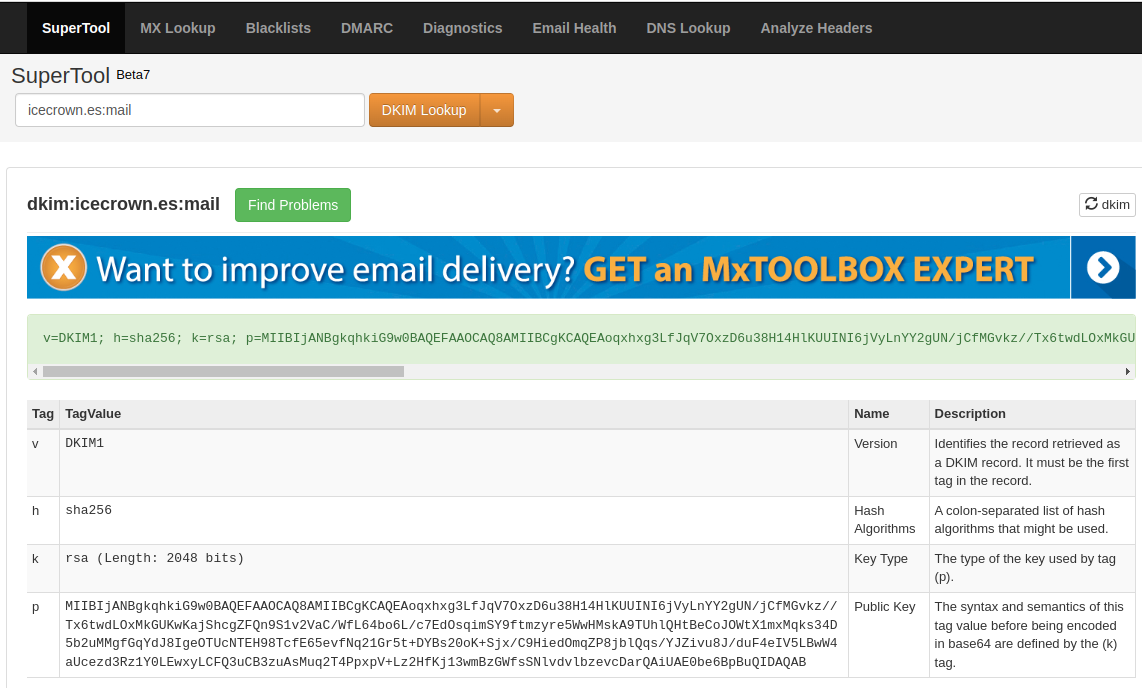
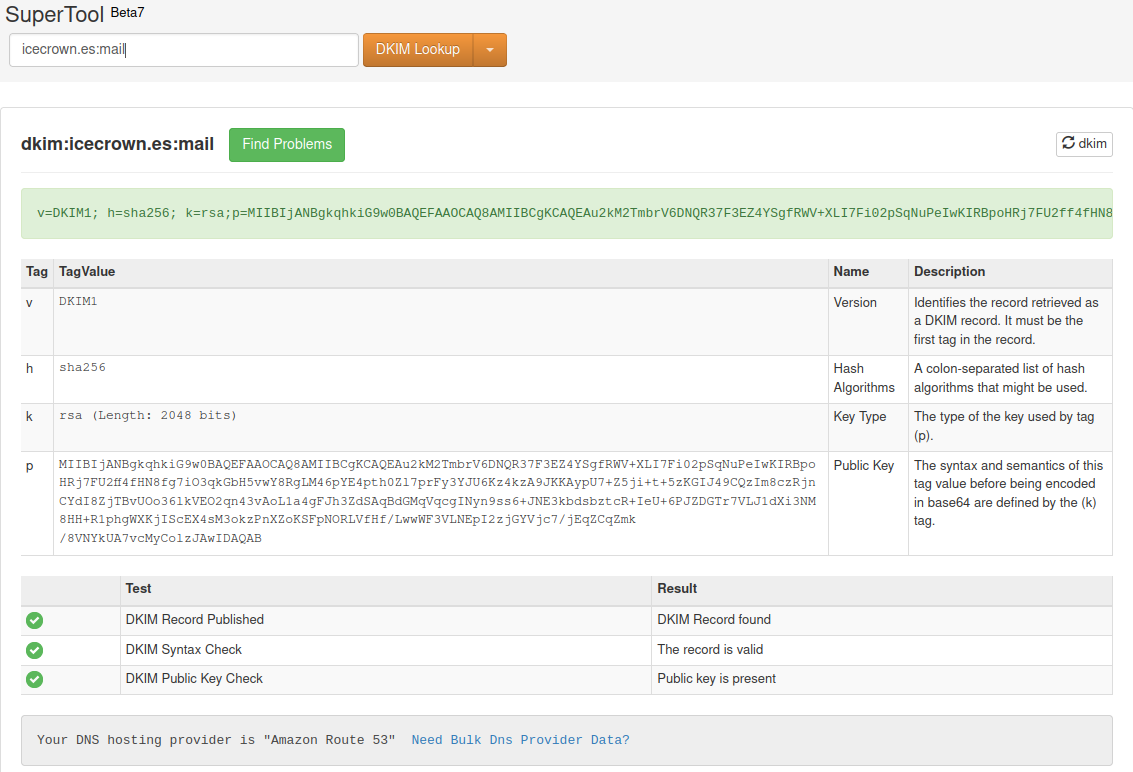
Contenido actualizado de DKIM

diff --git a/docs/zentyal-hardening.md b/docs/zentyal-hardening.md
@@ -181,24 +181,24 @@ Para este módulo vamos a implementar las siguientes funcionalidades para increm
 
 ### DKIM
 
+[DKIM] será la siguiente implementación de seguridad que realizaremos. El objetivo de DKIM es que el receptor pueda verificar que el email recibido es legítimo. Los pasos de configuración necesarias las he sacado de [aquí](https://doc.zentyal.org/es/mail.html#securizacion-del-servidor-de-correo).
+
 [DKIM]: https://www.dmarcanalyzer.com/es/dkim-3/
 
-DKIM será el próximo elemento a implementar, las acciones que realizaremos serán las mismas que se describen [aquí](https://doc.zentyal.org/es/mail.html#securizacion-del-servidor-de-correo).
-
-1. Instalamos el paquete necesario para la implementación de está técnica de autenticación para los correos electrónicos:
+1. Instalamos el paquete necesario para la implementación de DKIM:
 
     ```bash
     sudo apt update
-    sudo apt install opendkim opendkim-tools
+    sudo apt install -y opendkim opendkim-tools
     ```
 
-2. Creamos el directorio donde se almacenerán las claves de OpenDKIM:
+2. Creamos el directorio donde se almacenarán las claves de OpenDKIM:
 
     ```bash
     sudo mkdir -vp /etc/opendkim/keys
     ```
 
-3. Generamos la clave privada que será usada para firmar los correos electrónicos:
+3. Generamos la clave privada que será usada para firmar los correos electrónicos y como selector le daremos `mail`:
 
     ```bash
     sudo opendkim-genkey -s mail -d icecrown.es -D /etc/opendkim/keys
@@ -211,7 +211,7 @@ DKIM será el próximo elemento a implementar, las acciones que realizaremos ser
     sudo chmod 0640 /etc/opendkim/keys/*.private
     ```
 
-5. Creamos el archivo de configuración `/etc/opendkim/TrustedHosts` y establecemos en él, los dominios e IPs confiables:
+5. Creamos el archivo de configuración `/etc/opendkim/TrustedHosts` y establecemos en él el dominio y direcciones IP confiables:
 
     ```bash
     127.0.0.1
@@ -223,32 +223,34 @@ DKIM será el próximo elemento a implementar, las acciones que realizaremos ser
 6. Creamos el archivo de configuración `/etc/opendkim/SigningTable` que contendrá el dominio a firmar por OpenDKIM:
 
     ```bash
-    *@icecrown.es
+    *@icecrown.es mail._domainkey.icecrown.es
     ```
 
-7. Creamos el archivo de configuración `/etc/opendkim/KeyTable` que tendrá el selector y la ruta a la clave privada encargada de firmar los correos electrónicos:
+7. Creamos el archivo de configuración `/etc/opendkim/KeyTable` que tendrá el nombre del selector y la ruta a la clave privada encargada de firmar los correos electrónicos:
 
     ```bash
-    mail icecrown.es:mail:/etc/opendkim/keys/mail.private
+    mail._domainkey.icecrown.es icecrown.es:mail:/etc/opendkim/keys/mail.private
     ```
 
-8. Creamos el archivo de configuración pricipal llamado `/etc/opendkim.conf` y establecemos la configuración del servicio OpenDKIM:
+8. Creamos el archivo de configuración principal llamado `/etc/opendkim.conf` y establecemos la configuración del servicio OpenDKIM:
 
     ```bash
-    Mode                    sv
-    PidFile                 /var/run/opendkim/opendkim.pid
-    UserID                  opendkim:opendkim
+    Syslog			        yes
+    LogWhy			        yes
+    UMask			        007
+    Mode			        sv
+    SubDomains		        no
+    Canonicalization	    relaxed/simple
     Socket                  inet:8891@127.0.0.1
-    SignatureAlgorithm      rsa-sha256
-    AutoRestart             Yes
-    AutoRestartRate         10/1h
-    Syslog                  yes
-    SyslogSuccess           yes
-    LogWhy                  Yes
-    UMask                   002
-    OversignHeaders         From
-    Canonicalization        relaxed/simple
-
+    PidFile                 /run/opendkim/opendkim.pid
+    OversignHeaders		    From
+    TrustAnchorFile         /usr/share/dns/root.key
+    UserID                  opendkim
+    AutoRestart			    yes
+    AutoRestartRate		    10/1M
+    Background			    yes
+    DNSTimeout			    5
+    SignatureAlgorithm	    rsa-sha256
     ExternalIgnoreList      refile:/etc/opendkim/TrustedHosts
     InternalHosts           refile:/etc/opendkim/TrustedHosts
     KeyTable                refile:/etc/opendkim/KeyTable
@@ -258,8 +260,9 @@ DKIM será el próximo elemento a implementar, las acciones que realizaremos ser
 9. Establecemos la configuración del socket en el archivo de configuración `/etc/default/opendkim`:
 
     ```bash
-    ## Custom configuration
-    SOCKET="inet:8891@127.0.0.1"
+    ## Custom configuration created on 19-02-2023 by Daniel
+    # SOCKET=local:$RUNDIR/opendkim.sock
+    SOCKET=inet:8891@127.0.0.1
     ```
 
 10. Habilitamos, reiniciamos y comprobamos el servicio de OpenDKIM:
@@ -270,15 +273,19 @@ DKIM será el próximo elemento a implementar, las acciones que realizaremos ser
     sudo systemctl status opendkim
     ```
 
-11. Obtenemos el contenido del registro `TXT` que deberemos que crear en el dominio, para ello, abrimos el archivo de configuración `/etc/opendkim/keys/mail.txt`:
+11. El contenido del registro `TXT` que deberemos que crear en el dominio se encuentra en el archivo de configuración `/etc/opendkim/keys/mail.txt`:
+
+    En mi caso, el contenido es:
 
     ```bash
     mail._domainkey	IN	TXT	( "v=DKIM1; h=sha256; k=rsa; "
[4 lines of base64/hex data omitted]
     ```
 
-12. Creamos el registro TXT en el dominio. A diferencia de SPF, para este registro habrá que usar la CLI:
+12. Creamos el registro DNS de tipo `TXT` tanto en el servidor Zentyal como en el proveedor DNS:
+
+    Para el servidor Zentyal vamos a `DNS -> Domains -> TXT records`:
 
     ```bash
     sudo samba-tool dns add \
@@ -286,35 +293,103 @@ DKIM será el próximo elemento a implementar, las acciones que realizaremos ser
         icecrown.es \
         mail._domainkey.icecrown.es \
         TXT \
-        '"v=DKIM1; h=sha256; k=rsa; "
[2 lines of base64/hex data omitted]
+        'v=DKIM1; h=sha256; k=rsa;
[2 lines of base64/hex data omitted]
         -U zenadmin
     ```
 
-13. Revisamos desde [MXtoolbox] el registro añadido:
+    Para Route53:
+
+    !["DNS record for DKIM in Route53"](images/zentyal/mail-dkim_route53.png "DNS record for DKIM in Route53")
+
+13. Comprobamos la resolución del nuevo registro tanto interna como externamente:
+
+    ```bash
+    dig TXT mail._domainkey.icecrown.es
+    dig @8.8.8.8 TXT mail._domainkey.icecrown.es
+    ```
+
+    El resultado obtenido en mi caso:
+
+    ```text
+    ## Consulta interna (desde Zentyal)
+    ; <<>> DiG 9.16.1-Ubuntu <<>> TXT mail._domainkey.icecrown.es
+    ;; global options: +cmd
+    ;; Got answer:
+    ;; ->>HEADER<<- opcode: QUERY, status: NOERROR, id: 47343
+    ;; flags: qr aa rd ra; QUERY: 1, ANSWER: 1, AUTHORITY: 0, ADDITIONAL: 1
+
+    ;; OPT PSEUDOSECTION:
+    ; EDNS: version: 0, flags:; udp: 4096
+    ; COOKIE: e524c5bb228993ae0100000063f26951777512932a30cbc1 (good)
+    ;; QUESTION SECTION:
+    ;mail._domainkey.icecrown.es.	IN	TXT
+
+    ;; ANSWER SECTION:
[1 lines of base64/hex data omitted]
+
+    ;; Query time: 4 msec
+    ;; SERVER: 127.0.0.1#53(127.0.0.1)
+    ;; WHEN: Sun Feb 19 19:24:17 CET 2023
+    ;; MSG SIZE  rcvd: 518
+
+
+    ## Consulta externa
+    ; <<>> DiG 9.16.1-Ubuntu <<>> @8.8.8.8 TXT mail._domainkey.icecrown.es
+    ; (1 server found)
+    ;; global options: +cmd
+    ;; Got answer:
+    ;; ->>HEADER<<- opcode: QUERY, status: NOERROR, id: 58941
+    ;; flags: qr rd ra; QUERY: 1, ANSWER: 2, AUTHORITY: 0, ADDITIONAL: 1
+
+    ;; OPT PSEUDOSECTION:
+    ; EDNS: version: 0, flags:; udp: 512
+    ;; QUESTION SECTION:
+    ;mail._domainkey.icecrown.es.	IN	TXT
+
+    ;; ANSWER SECTION:
[2 lines of base64/hex data omitted]
+
+    ;; Query time: 16 msec
+    ;; SERVER: 8.8.8.8#53(8.8.8.8)
+    ;; WHEN: Sun Feb 19 19:25:24 CET 2023
+    ;; MSG SIZE  rcvd: 502
+    ```
+
+14. Usaremos también [MXtoolbox] para comprobar el registro:
 
     ![MXtoolbox](images/zentyal/mail-dkim_mxtoolbox.png "DKIM check")
 
-14. Una vez que hayamos terminado de configurar DKIM, procederemos a configurar Postfix para que haga uso de este servicio. Para ello, modificamos el stub `/etc/zentyal/stubs/mail/main.cf.mas` que creamos anteriormente:
+15. Una vez confirmado el registro DNS, procederemos a configurar el servicio Postfix (SMTP) para que haga uso de este servicio. Para ello, añadimos las siguientes líneas al final del stub `/etc/zentyal/stubs/mail/main.cf.mas`:
 
     ```bash
-    ## DKIM Configuration
+    ## DKIM Configuration created on 19-02-2023 by Daniel
     milter_protocol = 6
     milter_default_action = accept
     smtpd_milters = inet:127.0.0.1:8891
     non_smtpd_milters = inet:127.0.0.1:8891
     ```
 
-15. Reiniciamos el módulo de correo para que se apliquen los cambios:
+    En caso de no tener dicho archivo, tendremos que ejecutar los siguientes comandos:
+
+    ```sh
+    sudo mkdir -v /etc/zentyal/stubs/mail/
+    sudo cp -v /usr/share/zentyal/stubs/mail/main.cf.mas /etc/zentyal/stubs/mail/main.cf.mas
+    ```
+
+16. Reiniciamos el módulo de correo para que se apliquen los cambios:
 
     ```bash
     sudo zs mail restart
     ```
 
-16. Finalmente, enviamos un email desde una cuenta de correo interna a un dominio externo para verificar las cabeceras del correo electrónico enviado por Zentyal:
+17. Finalmente, enviaremos un correo a una cuenta externa - GMail en mi caso - y verificaremos las cabeceras:
 
-    ![DKIM headers](images/zentyal/mail-dkim_mxtoolbox.png "DKIM headers")
+    ![DKIM headers](images/zentyal/mail-dkim-test-email.png "DKIM headers")
+
+[MXtoolbox]: https://mxtoolbox.com/dkim.aspx
 
 ### DMARC
 
